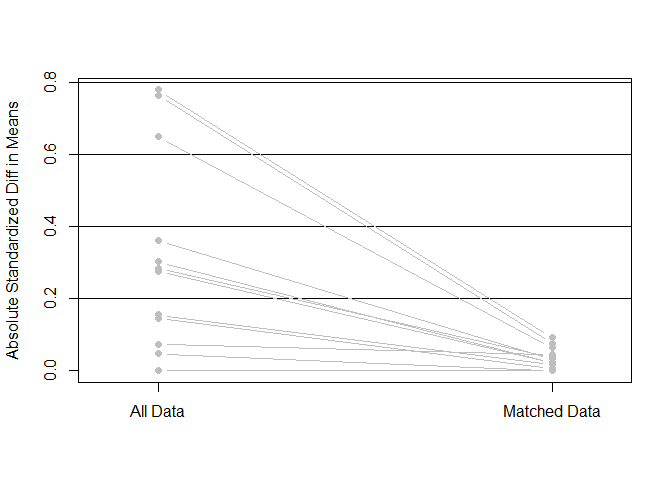
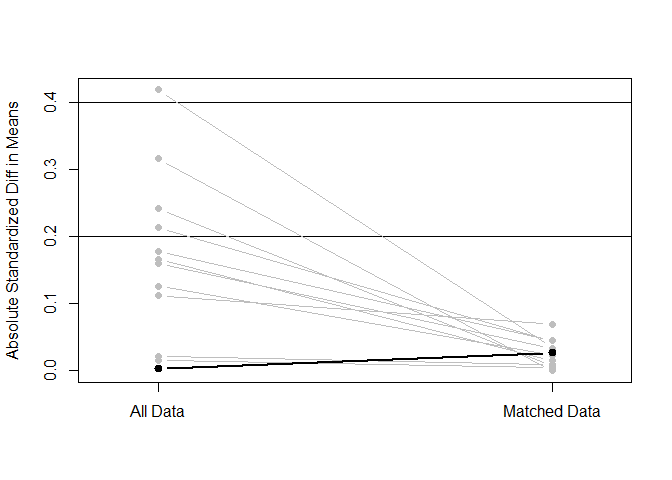
Restructured. Assertions added.

diff --git a/data-raw/04_subsetting_and_matching.md b/data-raw/04_subsetting_and_matching.md
@@ -1,12 +1,13 @@
 Group and match
 ================
 Benny Salo
-2018-06-19
+2018-06-26
 
 Load and setup
 --------------
 
 ``` r
+rm(list = ls())
 devtools::wd()
 analyzed_data_plac <- readRDS("not_public/analyzed_data_plac.rds")
 
@@ -14,10 +15,92 @@ devtools::load_all(".")
 library(tidyverse)
 ```
 
+### Helper functions
+
+#### Intiate lists to hold information pertaining to a given comparison
+
+``` r
+init_my_list <- function() {
+  out <- list(effect_variable = NA,
+              data = NA,
+              matchit_output = NA,
+              matched_data = NA)
+}
+```
+
+### Create column for characterization as high or low propensity group
+
+``` r
+split_point <- median(analyzed_data_plac$overarch_propensity)
+```
+
+Function for finding the row numbers of matched observations in either high or low propensity group.
+
+``` r
+get_prop_group_i <- function(matched_data, 
+                             matchit_output, 
+                             hi_or_low = "none") {
+  
+  # Shorten name
+  m_matrix <- matchit_output$match.matrix
+  
+  # Get row numbers for all matched treated observations
+  # (row names in m_matrix and m_data is taken from original data from )
+  lgl_i_UNmatched_treated <- apply(m_matrix, MARGIN = 1, anyNA)
+  rn_matched_treated      <- row.names(m_matrix[!(lgl_i_UNmatched_treated), ,
+                                                drop = FALSE])
+  
+  # Get row numbers for matched treated observations in either high or low group
+  if (hi_or_low == "high") {
+    lgl_hi     <- matched_data$overarch_propensity > split_point
+    rn_hi      <- row.names(matched_data[lgl_hi, , drop = FALSE])
+    
+    rn_treated <- rn_hi[rn_hi %in% rn_matched_treated]
+    
+    
+  } else if (hi_or_low == "low") {
+    lgl_lo     <- matched_data$overarch_propensity <= split_point
+    rn_lo      <- row.names(matched_data[lgl_lo, ,
+                                         drop = FALSE])
+    
+    rn_treated <- rn_lo[rn_lo %in% rn_matched_treated]
+ 
+  } else {
+    stop("'hi_or_low' needs to be defined as 'high' or 'low'", call. = FALSE)
+  }
+  #  Get the controls that is paried with the given treated observations 
+  rn_control <- as.numeric(m_matrix[row.names(m_matrix) %in% rn_treated, ,
+                                    drop = FALSE])
+  rn_control <- rn_control[!(is.na(rn_control))]
+  # Combine the two vectors of row numbers
+  return(c(rn_treated, rn_control))
+  
+}
+
+add_propensity_group <- function(comp_list) {
+  comp_list$matched_data$propensity_group <- 
+    factor(rep(NA, nrow(comp_list$matched_data)), levels = c("low", "high"))
+  
+  low_index  <- get_prop_group_i(comp_list$matched_data, 
+                                 comp_list$matchit_output, "low")
+  comp_list$matched_data[as.character(low_index),
+                         "propensity_group"] <- "low"  
+  
+  high_index <- get_prop_group_i(comp_list$matched_data, 
+                                 comp_list$matchit_output, "high") 
+  comp_list$matched_data[as.character(high_index),
+                         "propensity_group"] <- "high"
+  
+  return(comp_list)
+}
+```
+
 Create subsets
-==============
+--------------
 
 There number of individuals, that were placed in closed prison but receiving conditional release, are not enough for us to attempt meaningful matching. The three other combinations of conditions will be compared.
+
+We start by creating these three subsets.
 
 ``` r
 set_1_open_yesCR <- 
@@ -39,87 +122,163 @@ set_3_closed_noCR <-
 Matching
 --------
 
-We do matching separately for all comparisons. The same settings are used in all matching but the data and what treatment is of interest varies. That means that a customized propensity score is calculated for each matching. The propensity scores lacks meaning in themselves but Customized propensity scores should lead to better balance between compared groups - which is what matters.
+We compare the three groups pairwise and do matching separately for all three comparisons. The same settings are used in all matching but the data and what treatment is of interest varies. This means that a customized propensity score is calculated for each matching. The propensity scores lacks meaning in themselves but customized propensity scores should lead to better balance between compared groups - which is what we care about.
 
-We use `MatchIt::matchit` with the following settings: - `formula`: The propensity is calculated for the propensity for the treatment that separates the two groups with the previously identified potential confounders as predictors. - `exact`: Exact matching is for supervision of parole. This is to partly a condition variable and we find it worthwhile to compare individuals under supervision to other individuals under supervision. - `method`: *nearest neighbor matching* is used - `caliper`: neighbors within 0.2 standard deviations are considered - `m.order`: we use the default of matching treated to control beginning with the largest propensity scores and working systematically down - `ratio`: we match 1 treated to 1 control (default made explicit)
+We use `MatchIt::matchit` with the following settings: - `formula`: The propensity is calculated for the propensity for the treatment that separates the two groups with the previously identified potential confounders as predictors. - `exact`: We use exact matching for "supervision of parole". This variable is partly a condition variable and we find it worthwhile to compare individuals under supervision to other individuals under supervision. - `method`: *nearest neighbor matching* is used - `caliper`: neighbors within 0.2 standard deviations on the customized propensity score are considered - `m.order`: we use the default of matching treated to control beginning with the largest propensity scores and working systematically down - `ratio`: we match 1 treated to 1 control (default made explicit)
+
+### Function used
 
 ``` r
-my_matching <- function(subset_data, treatment) {
-  MatchIt::matchit(
-    formula  = write_formula(lhs = treatment, rhs = potential_confounders),
-    exact    = "supervisedParole",
-    data     = subset_data,
-    method   = "nearest",
-    caliper  = 0.2,
-    m.order  = "largest",
-    ratio    = 1)
+do_all_matching <- function(comp_list) {
+  # Put my_data in global environment for match.data to work
+  my_data   <<- comp_list$data
+ 
+  comp_list$matchit_output  <-     
+    MatchIt::matchit(
+      # `potential_confounders` is created in 02_selecting_covariates
+      formula  = write_formula(lhs = comp_list$effect_variable,
+                               rhs = potential_confounders),
+      exact    = "supervisedParole",
+      data     = my_data,
+      method   = "nearest",
+      caliper  = 0.2,
+      m.order  = "largest",
+      ratio    = 1
+      )
+  
+  comp_list$matched_data    <- MatchIt::match.data(comp_list$matchit_output)
+  comp_list                 <- add_propensity_group(comp_list)
+  
+  rm(my_data, envir = .GlobalEnv)
+  
+  return(comp_list)
 }
 ```
 
-Matching observations that allows comparisons between individuals - placed in open prison *and* granted conditional release - placed in open prison *not* granted conditional release
+### Assertions
+
+1.  The produced list should have the elements
+    -   `$effect_variable`
+    -   `$data`
+    -   `$matchit_output`
+    -   `$matched_data`
+2.  The number of rows in `$data` needs to be the sum of observations.
+3.  The number of rows in `$matched_data` should be the number of 1s in (or sum of) the weights vector in `$matchit_output` (indicating whether the observation was matched \[1\] or not \[0\]).
+4.  The length of the vector indicating if the observation was matched (in `$matchit_output`, needs to be the sum of the observations in the two groups)
+5.  The number of observations in the high and in the low propensity group should be even numbers (since they are made up of pairs)
+
+``` r
+make_my_assertions <- function(comp_list, n1, n2) {
+  # Assertion 1
+  stopifnot(names(comp_list) == c("effect_variable", 
+                                  "data", 
+                                  "matchit_output", 
+                                  "matched_data"))
+  # Assertion 2
+  stopifnot(length(comp_list$matchit_output$weights) == n1 + n2)
+  # Assertion 3
+  stopifnot(nrow(comp_list$data) == n1 + n2)
+  # Assertion 4
+  stopifnot(nrow(comp_list$matched_data) == sum(comp_list$matchit_output$weights))
+  # Assertion 5
+  stopifnot(sum(comp_list$matched_data$propensity_group == "low") %% 2 == 0)
+  stopifnot(sum(comp_list$matched_data$propensity_group == "high") %% 2 == 0)
+  
+  print("Five assertions passed")
+}
+```
+
+Putting it all together
+-----------------------
+
+### `comp_1_vs_2`
+
+Matching observations that allows comparisons between individuals - placed in open prison *and* granted conditional release, n = 220 - placed in open prison *not* granted conditional release, n = 411
 
 Difference in treatment: `cond01`- granted conditional release
 
 ``` r
-match_1_vs_2 <- 
-  my_matching(subset_data = rbind(set_1_open_yesCR, set_2_open_noCR),
-              treatment   = "cond01")
+comp_1_vs_2 <- init_my_list()
+
+comp_1_vs_2$effect_variable <- "cond01"
+comp_1_vs_2$data            <- rbind(set_1_open_yesCR, set_2_open_noCR)
+
+comp_1_vs_2 <- do_all_matching(comp_1_vs_2)
+
+make_my_assertions(comp_1_vs_2, 220, 411)
 ```
 
-Matching observations that allows comparisons between individuals - placed in *open* prison *and* granted conditional release - placed in *closed* prison *not* granted conditional release
+    ## [1] "Five assertions passed"
+
+Check balance
+
+``` r
+plot(summary(comp_1_vs_2$matchit_output, standardize = TRUE))
+```
+
+![](04_subsetting_and_matching_files/figure-markdown_github/unnamed-chunk-9-1.png)
+
+    ## [1] "To identify the variables, use first mouse button; to stop, use second."
+
+    ## integer(0)
+
+### `comp_1_vs_3`
+
+Matching observations that allows comparisons between individuals - placed in *open* prison *and* granted conditional release, n = 220 - placed in *closed* prison *not* granted conditional release, n = 668
 
 Difference in treatment: `open_and_cr01`- placed in *open* prison and *granted* conditional release
 
 ``` r
-match_1_vs_3 <- 
-  my_matching(subset_data = rbind(set_1_open_yesCR, set_3_closed_noCR),
-              treatment   = "open_and_cr01")
+comp_1_vs_3 <- init_my_list()
+
+comp_1_vs_3$effect_variable <- "open_and_cr01"
+comp_1_vs_3$data            <- rbind(set_1_open_yesCR, set_3_closed_noCR)
+
+comp_1_vs_3 <- do_all_matching(comp_1_vs_3)
+
+make_my_assertions(comp_1_vs_3, 220, 668)
 ```
 
-Matching observations that allows comparisons between individuals - placed in *open* prison not granted conditional release - placed in *closed * prison not granted conditional release
+    ## [1] "Five assertions passed"
+
+Check balance
+
+``` r
+plot(summary(comp_1_vs_3$matchit_output, standardize = TRUE))
+```
+
+![](04_subsetting_and_matching_files/figure-markdown_github/unnamed-chunk-11-1.png)
+
+    ## [1] "To identify the variables, use first mouse button; to stop, use second."
+
+    ## integer(0)
+
+### `comp_2_vs_3`
+
+Matching observations that allows comparisons between individuals - placed in *open* prison not granted conditional release, n = 411 - placed in *closed * prison not granted conditional release, n = 668
 
 Difference in treatment: `open01`- placed in *open* prison
 
 ``` r
-match_2_vs_3 <- 
-  my_matching(subset_data = rbind(set_2_open_noCR, set_3_closed_noCR),
-              treatment   = "open01")
+comp_2_vs_3 <- init_my_list()
+
+comp_2_vs_3$effect_variable <- "open01"
+comp_2_vs_3$data            <- rbind(set_2_open_noCR, set_3_closed_noCR)
+
+comp_2_vs_3 <- do_all_matching(comp_2_vs_3)
+
+make_my_assertions(comp_2_vs_3, 411, 668)
 ```
+
+    ## [1] "Five assertions passed"
 
 Check balance
--------------
-
-Individuals in open prison - conditional release granted vs not granted
 
 ``` r
-plot(summary(match_1_vs_2, standardize = TRUE))
+plot(summary(comp_2_vs_3$matchit_output, standardize = TRUE))
 ```
 
-![](04_subsetting_and_matching_files/figure-markdown_github/unnamed-chunk-7-1.png)
-
-    ## [1] "To identify the variables, use first mouse button; to stop, use second."
-
-    ## integer(0)
-
-Individuals in open prison and granted conditional release vs in closed and not granted conditional release
-
-``` r
-plot(summary(match_1_vs_3, standardize = TRUE))
-```
-
-![](04_subsetting_and_matching_files/figure-markdown_github/unnamed-chunk-8-1.png)
-
-    ## [1] "To identify the variables, use first mouse button; to stop, use second."
-
-    ## integer(0)
-
-Individuals not granted conditional release - placed in open vs placed in closed.
-
-``` r
-plot(summary(match_2_vs_3, standardize = TRUE))
-```
-
-![](04_subsetting_and_matching_files/figure-markdown_github/unnamed-chunk-9-1.png)
+![](04_subsetting_and_matching_files/figure-markdown_github/unnamed-chunk-13-1.png)
 
     ## [1] "To identify the variables, use first mouse button; to stop, use second."
 
